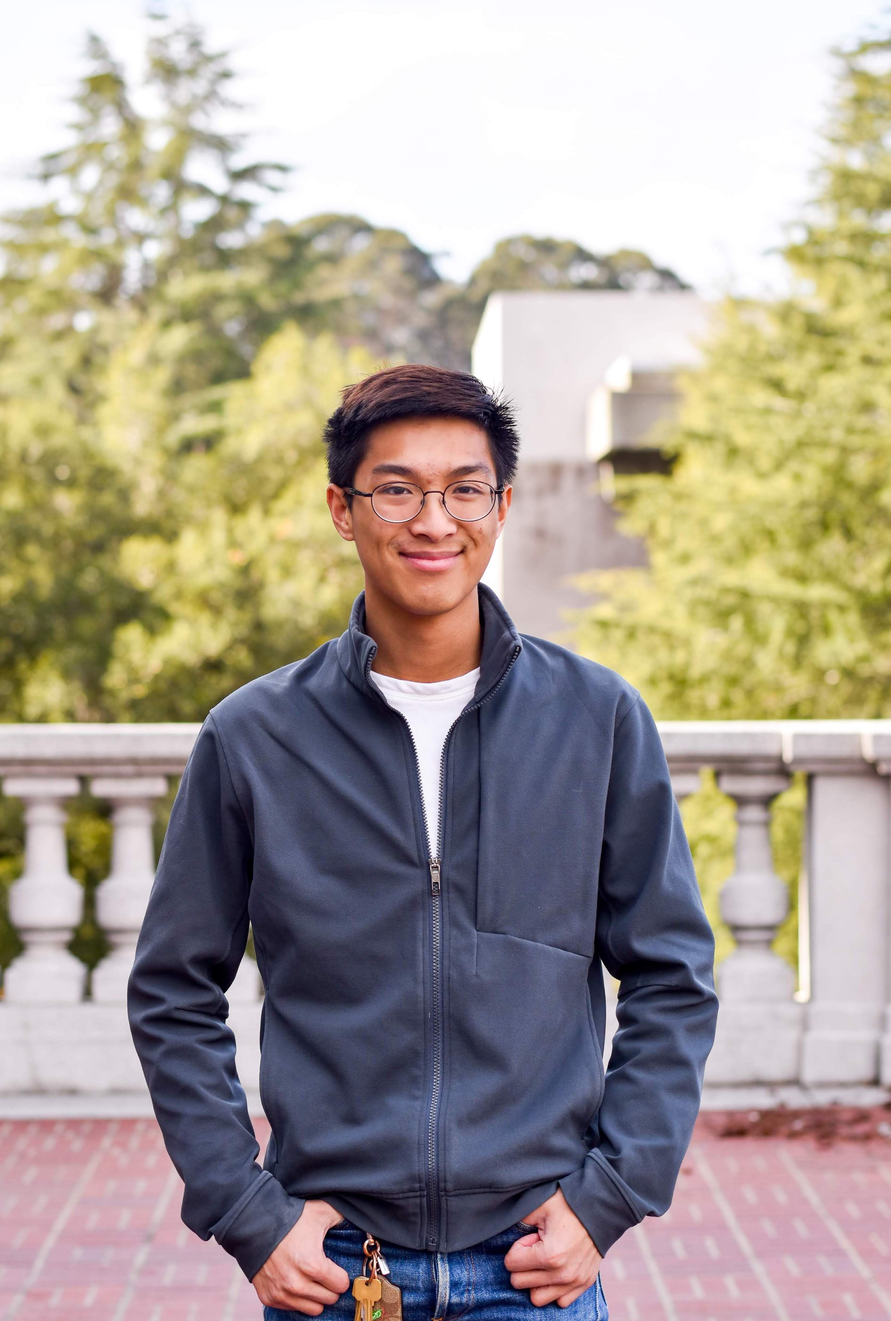
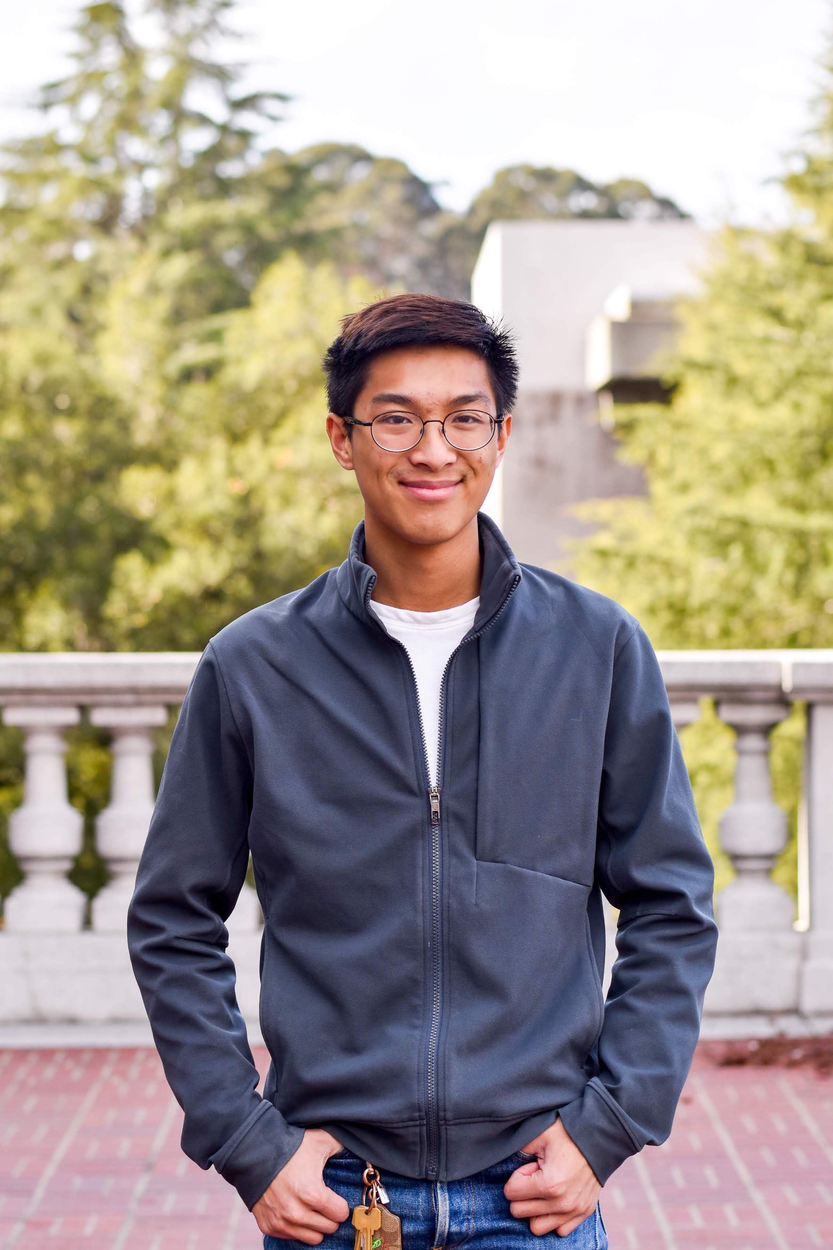
fix sp20 people photo sizes

diff --git a/usa_website/templates/usa_website/people.html b/usa_website/templates/usa_website/people.html
@@ -269,7 +269,7 @@ a {
 
   <div class="col fh5co-staff text-center" style="flex-basis:25%;flex-grow:0;">
       <div class="person-container">
-          <img class="person-img" src="{% static 'usa_website/images/people/sp20/luke.jpg' %}" alt="Luke" style="width:100%; height:auto;">
+          <img class="person-img" src="{% static 'usa_website/images/people/sp20/luke_cropped.jpg' %}" alt="Luke" style="width:100%; height:auto;">
             <div class="person-overlay">
               <p>Luke is a junior Computer Science major and Statistics minor. He is passionate about deep learning and all he knows how to do is plugging and chugging python code from Stack Overflow and Medium. Other than eating, drinking and dreaming about neural nets, he enjoys spending time discovering new things about the world and playing board games with anyone!
 <br>
@@ -295,7 +295,7 @@ a {
   <div class="row">
     <div class="col fh5co-staff text-center" style="flex-basis:25%;flex-grow:0;">
         <div class="person-container">
-          <img class="person-img" src="{% static 'usa_website/images/people/sp20/amal.jpg' %}"
+          <img class="person-img" src="{% static 'usa_website/images/people/sp20/amal_cropped.jpg' %}"
           alt="Amal" style="width:100%; height:auto;">
           <div class="person-overlay">
             <p>Amal is a third year Data Science and Economics double major. This is his second semester in SAAS. In his free time, he loves to read, play basketball, and write. You can catch him watching The Office and eating thai food. <br>
@@ -324,7 +324,7 @@ a {
 
               <div class="col fh5co-staff text-center" style="flex-basis:25%;flex-grow:0;">
                 <div class="person-container">
-                  <img class="person-img" src="{% static 'usa_website/images/people/sp20/gwyneth.jpg' %}"
+                  <img class="person-img" src="{% static 'usa_website/images/people/sp20/gwyneth_cropped.jpg' %}"
                   alt="Gwyneth" style="width:100%; height:auto;">
                   <div class="person-overlay">
                     <p>Gwyneth is a third year Computer Science student from Singapore. This is her second semester in SAAS. She enjoys cooking and playing mahjong!<br>
@@ -371,7 +371,7 @@ a {
 
     <div class="col fh5co-staff text-center" style="flex-basis:25%;flex-grow:0;">
       <div class="person-container">
-        <img class="person-img" src="{% static 'usa_website/images/people/sp20/pengyuan.jpg' %}"
+        <img class="person-img" src="{% static 'usa_website/images/people/sp20/pengyuan_cropped.jpg' %}"
         alt="Pengyuan" style="width:100%; height:auto;">
         <div class="person-overlay">
           <p>Pengyuan is a second year Computer Science major. This is his third semester in SAAS. He likes running, cooking, playing the guitar and learning random new skills on YouTube. Join him for a Berkeley Marina run or a study session at Moffitt!<br>
@@ -399,7 +399,7 @@ a {
 
 <div class="col fh5co-staff text-center" style="flex-basis:25%;flex-grow:0; ">
   <div class="person-container">
-    <img class="person-img" src="{% static 'usa_website/images/people/sp20/michael.jpg' %}"
+    <img class="person-img" src="{% static 'usa_website/images/people/sp20/michael_cropped.jpg' %}"
     alt="Michael" style="width:100%; height:auto;">
     <div class="person-overlay">
       <p>Michael is a second year computer science and applied math major. This is his third semester in SAAS. Find him playing board games like Dominion and dead fighting games like Guilty Gear and ask to play him if you’re interested.<br>
@@ -417,7 +417,7 @@ a {
     <div class="row" style="justify-content:space-between;">
        <div class="col fh5co-staff text-center" style="flex-basis:25%;flex-grow:0;">
           <div class="person-container">
-             <img class="person-img" src="{% static 'usa_website/images/people/sp20/aishani.jpg' %}" alt="Aishani" style="width:100%; height:auto;">
+             <img class="person-img" src="{% static 'usa_website/images/people/sp20/aishani_cropped.jpg' %}" alt="Aishani" style="width:100%; height:auto;">
                 <div class="person-overlay">
                     <p>Aishani is a sophomore studying computer science. This is her third semester being involved with R&P; outside of academics, she also likes to teach, play with Photoshop, and roam the aisles of Whole Foods. <br>
                       <a href="mailto:aishani.sil@berkeley.edu"><i class="icon-envelope"></i></a>
@@ -471,7 +471,7 @@ a {
      <div class="row" style="justify-content:space-between;">
        <div class="col fh5co-staff text-center" style="flex-basis:25%;flex-grow:0;">
           <div class="person-container">
-             <img class="person-img" src="{% static 'usa_website/images/people/sp20/linda.jpg' %}" alt="Linda" style="width:100%; height:auto;">
+             <img class="person-img" src="{% static 'usa_website/images/people/sp20/linda_cropped.jpg' %}" alt="Linda" style="width:100%; height:auto;">
                 <div class="person-overlay">
                     <p>Linda is a sophomore studying Statistics and Computer Science. This will be her second semester in SAAS Web Development Committee. In her free time, she loves to learn about new web technologies and other topics not taught in class. Outside of academics, she likes cooking and exploring new restaurants with friends!<br>
                       <a href="mailto:deng22@berkeley.edu"><i class="icon-envelope"></i></a>
